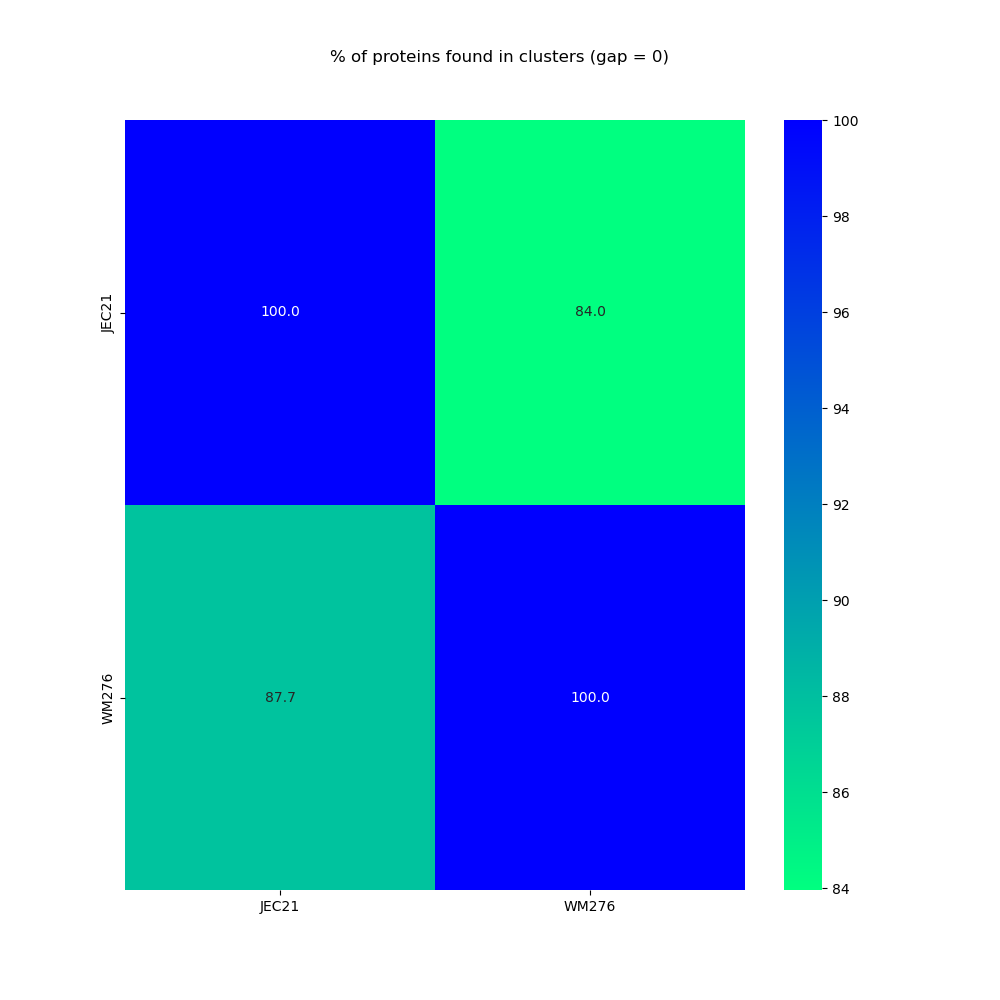
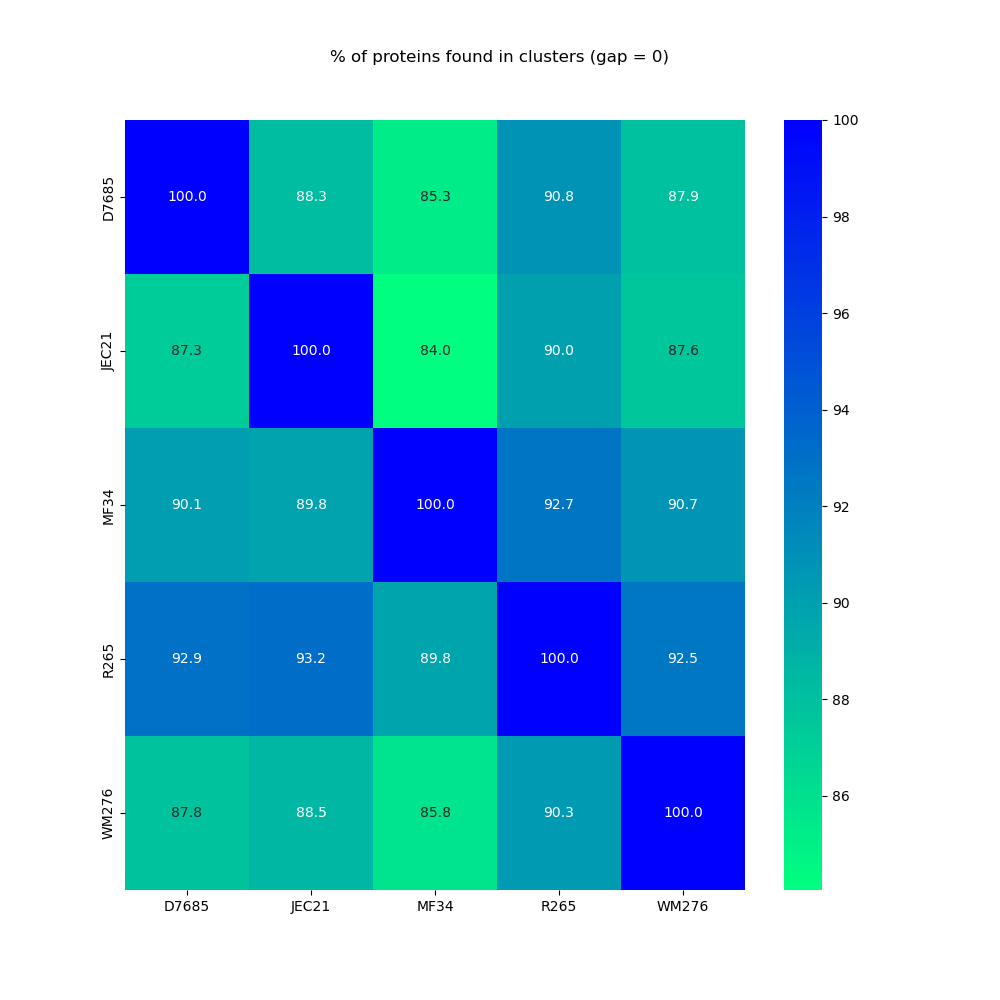
+ 5 cryptococcus example

diff --git a/README.md b/README.md
@@ -350,35 +350,88 @@ The contents of the subdirectories are:
 ### <b>Step by step examples</b>
 
 #### Example 1 - <i>Cryptococcus</i>
-Below is a quick example describing how to compare two genomes from [<i>Cryptococcus neoformans</i> var. <i>neoformans</i> JEC21](https://pubmed.ncbi.nlm.nih.gov/15653466/) and [<i>Cryptococcus gattii</i> WM276](https://pubmed.ncbi.nlm.nih.gov/21304167/) using annotation data available in public databases.
+Below is a quick example describing how to compare a few select <i>Cryptococcus</i> genomes using annotation data available in public databases: <i>C. neoformans</i> var. <i>neoformans</i> strain [JEC21](https://www.ncbi.nlm.nih.gov/bioproject/PRJNA13856/), <i>C. gattii</i> strain [WM276](https://www.ncbi.nlm.nih.gov/bioproject/PRJNA13692/), <i>C. gattii</i> VGV strain [MF34](hhttps://www.ncbi.nlm.nih.gov/bioproject/PRJNA487802/), <i>C. decagattii</i> strain [7685027](https://www.ncbi.nlm.nih.gov/bioproject/PRJNA660466/), and <i>C. deuterogattii</i> strain [R265](https://www.ncbi.nlm.nih.gov/bioproject/PRJNA395628/).
 
 ##### Downloading annotation data from GenBank (NCBI):
+
+Downloading <i>Cryptococcus</i> example data automatically from NCBI using the provided `Cryptococcus.sh` shell script in the `Examples/` subdirectory:
 ```bash
-DATA=~/DATA      ## Replace by desired annotation data directory
+DATA=~/DATA ## Replace ~/DATA by desired annotation data directory
+Cryptococcus.sh $DATA
+```
+
+Downloading <i>Cryptococcus</i> example data manually:
+```bash
+DATA=~/DATA ## Replace ~/DATA by desired annotation data directory
 mkdir -p $DATA
 
-# Cryptococcus neoformans JEC21
+##### Downloading data from NCBI ####
+### Cryptococcus neoformans strain JEC21
+outfile=${DATA}/JEC21.gbff.gz
+printf "\nDownloading Cryptococcus neoformans strain JEC21 as ${outfile}\n\n"
 curl \
-  -L https://ftp.ncbi.nlm.nih.gov/genomes/all/GCF/000/091/045/GCF_000091045.1_ASM9104v1/GCF_000091045.1_ASM9104v1_genomic.gbff.gz \
-  -o $DATA/JEC21.gbff.gz
+  -L ${BASEURL}/GCF/000/091/045/GCF_000091045.1_ASM9104v1/GCF_000091045.1_ASM9104v1_genomic.gbff.gz \
+  -o $outfile
 
-# Cryptococcus gattii WM276
+### Cryptococcus gattii strain WM276
+outfile=${DATA}/WM276.gbff.gz
+printf "\nDownloading Cryptococcus neoformans strain JEC21 as ${outfile}\n\n"
 curl \
-  -L https://ftp.ncbi.nlm.nih.gov/genomes/all/GCF/000/185/945/GCF_000185945.1_ASM18594v1/GCF_000185945.1_ASM18594v1_genomic.gbff.gz \
-  -o $DATA/WM276.gbff.gz
+  -L ${BASEURL}/GCF/000/185/945/GCF_000185945.1_ASM18594v1/GCF_000185945.1_ASM18594v1_genomic.gbff.gz \
+  -o $outfile
+
+### Cryptococcus gattii VGV strain MF34
+outfile=${DATA}/MF34.gbff.gz
+printf "\nDownloading Cryptococcus gattii VGV strain MF34 as ${outfile}\n\n"
+curl \
+  -L ${BASEURL}/GCA/009/650/685/GCA_009650685.1_Cryp_gatt_MF34/GCA_009650685.1_Cryp_gatt_MF34_genomic.gbff.gz \
+  -o $outfile
+
+### Cryptococcus decagattii strain 7685027
+outfile=${DATA}/D7685.gbff.gz
+printf "\nDownloading Cryptococcus decagattii strain 7685027 as ${outfile}\n\n"
+curl \
+  -L ${BASEURL}/GCA/036/417/295/GCA_036417295.1_ASM3641729v1/GCA_036417295.1_ASM3641729v1_genomic.gbff.gz \
+  -o $outfile
+
+### Cryptococcus deuterogattii strain R265
+outfile=${DATA}/R265.gbff.gz
+printf "\nDownloading Cryptococcus deuterogattii strain R265 as ${outfile}\n\n"
+curl \
+  -L ${BASEURL}/GCF/002/954/075/GCF_002954075.1_C._deuterogattii_R265_chr/GCF_002954075.1_C._deuterogattii_R265_chr_genomic.gbff.gz \
+  -o $outfile
 ```
 
 ##### Running SYNY and plotting comparisons with Circos:
+
+Running SYNY on all five genomes with no gaps allowed (`gap 0`) between gene pairs:
+
 ```Bash
-SYNY=~/SYNY_RESULTS      ## Replace by desired SYNY output directory
+SYNY=~/SYNY_CRYPT_ALL   ## Replace by desired SYNY output directory
 
 run_syny.pl \
   -a $DATA/*.gbff.gz \
+  -o $SYNY \
+  -g 0 \
+  -e 1e-10 \
+  --circos all \
+  -r JEC21 \
+  --circos_prefix cryptococcus
+```
+
+
+Running SYNY on a subset of two genomes (`JEC21` and `WM276`), this time also allowing  maximum gaps 1 and 5 gaps between gene pairs, and producing only the concatenated Circos plots:
+
+```Bash
+SYNY=~/SYNY_CRYPT_2     ## Replace by desired SYNY output directory
+
+run_syny.pl \
+  -a $DATA/{JEC21,WM276}.gbff.gz \
+  -o $SYNY \
   -g 0 1 5 \
   -e 1e-10 \
+  --circos cat \
   -r JEC21 \
-  -o $SYNY \
-  --circos all \
   --circos_prefix WM276_vs_JEC21
 ```
 
@@ -465,7 +518,7 @@ WM276_vs_JEC21  6565    5       5957    90.74   51      477     2       117     
 
 To faciliate comparisons when working with large datasets, heatmaps displaying the percentages of colinear bases in pairwise genome alignments (`.mmap.`) and the percentages of protein coding-genes found in colinear clusters between each pair of genomes (e.g. `.gap_0.`) are generated with matplotlib.
 
-In the current example, small heatmaps with 4 datapoints (2 * 2 genomes) will be generated for the minimap2 pairwise alignments and for the protein clusters found for each gap value investigated (0, 1 and 5). In these heatmaps, percentages between pairs of genomes will vary based on the total number of bases and proteins found in the query used: <i>i.e.</i> `(colinear bases / total bases) * 100` and `(proteins in clusters / total proteins) * 100`.
+In the above example, small heatmaps with 25 datapoints (5 * 5 genomes) will be generated for the minimap2 pairwise alignments and for the protein clusters found for each gap value investigated. In these heatmaps, percentages between pairs of genomes will vary based on the total number of bases and proteins found in the query used: <i>i.e.</i> `(colinear bases / total bases) * 100` and `(proteins in clusters / total proteins) * 100`.
 
 ##### Example of a heatmap showing percentages of colinear protein-coding genes between investigated genomes:
 <p align="left">
@@ -827,5 +880,7 @@ run_syny.pl \
 [The genome of the basidiomycetous yeast and human pathogen <i>Cryptococcus neoformans</i>](https://pubmed.ncbi.nlm.nih.gov/15653466/). Loftus BJ, Fung E, Roncaglia P, Rowley D, Amedeo P, Bruno D, Vamathevan J, Miranda M, Anderson IJ, Fraser JA, Allen JE, Bosdet IE, Brent MR, Chiu R, Doering TL, Donlin MJ, D'Souza CA, Fox DS, Grinberg V, Fu J, Fukushima M, Haas BJ, Huang JC, Janbon G, Jones SJ, Koo HL, Krzywinski MI, Kwon-Chung JK, Lengeler KB, Maiti R, Marra MA, Marra RE, Mathewson CA, Mitchell TG, Pertea M, Riggs FR, Salzberg SL, Schein JE, Shvartsbeyn A, Shin H, Shumway M, Specht CA, Suh BB, Tenney A, Utterback TR, Wickes BL, Wortman JR, Wye NH, Kronstad JW, Lodge JK, Heitman J, Davis RW, Fraser CM, Hyman RW. <b>Science.</b> 2005 Feb 25;307(5713):1321-4. doi: 10.1126/science.1103773. Epub 2005 Jan 13. PMID: 15653466; PMCID: PMC3520129.
 
 [Genome variation in <i>Cryptococcus gattii</i>, an emerging pathogen of immunocompetent hosts](https://pubmed.ncbi.nlm.nih.gov/21304167/). D'Souza CA, Kronstad JW, Taylor G, Warren R, Yuen M, Hu G, Jung WH, Sham A, Kidd SE, Tangen K, Lee N, Zeilmaker T, Sawkins J, McVicker G, Shah S, Gnerre S, Griggs A, Zeng Q, Bartlett K, Li W, Wang X, Heitman J, Stajich JE, Fraser JA, Meyer W, Carter D, Schein J, Krzywinski M, Kwon-Chung KJ, Varma A, Wang J, Brunham R, Fyfe M, Ouellette BF, Siddiqui A, Marra M, Jones S, Holt R, Birren BW, Galagan JE, Cuomo CA. <b>mBio</b>. 2011 Feb 8;2(1):e00342-10. doi: 10.1128/mBio.00342-10. PMID: 21304167; PMCID: PMC3037005.
+
+[A New Lineage of Cryptococcus gattii (VGV) Discovered in the Central Zambezian Miombo Woodlands](https://pubmed.ncbi.nlm.nih.gov/31719178/). Farrer RA, Chang M, Davis MJ, van Dorp L, Yang DH, Shea T, Sewell TR, Meyer W, Balloux F, Edwards HM, Chanda D, Kwenda G, Vanhove M, Chang YC, Cuomo CA, Fisher MC, Kwon-Chung KJ. <b>mBio</b>. 2019 Nov 12;10(6):e02306-19. doi: 10.1128/mBio.02306-19. PMID: 31719178; PMCID: PMC6851281.
 
 [Telomere-to-Telomere genome assemblies of human-infecting <i>Encephalitozoon</i> species](https://pubmed.ncbi.nlm.nih.gov/37142951/). Mascarenhas Dos Santos AC, Julian AT, Liang P, Juárez O, Pombert JF. <b>BMC Genomics</b>. 2023 May 4;24(1):237. doi: 10.1186/s12864-023-09331-3. PMID: 37142951; PMCID: PMC10158259.
